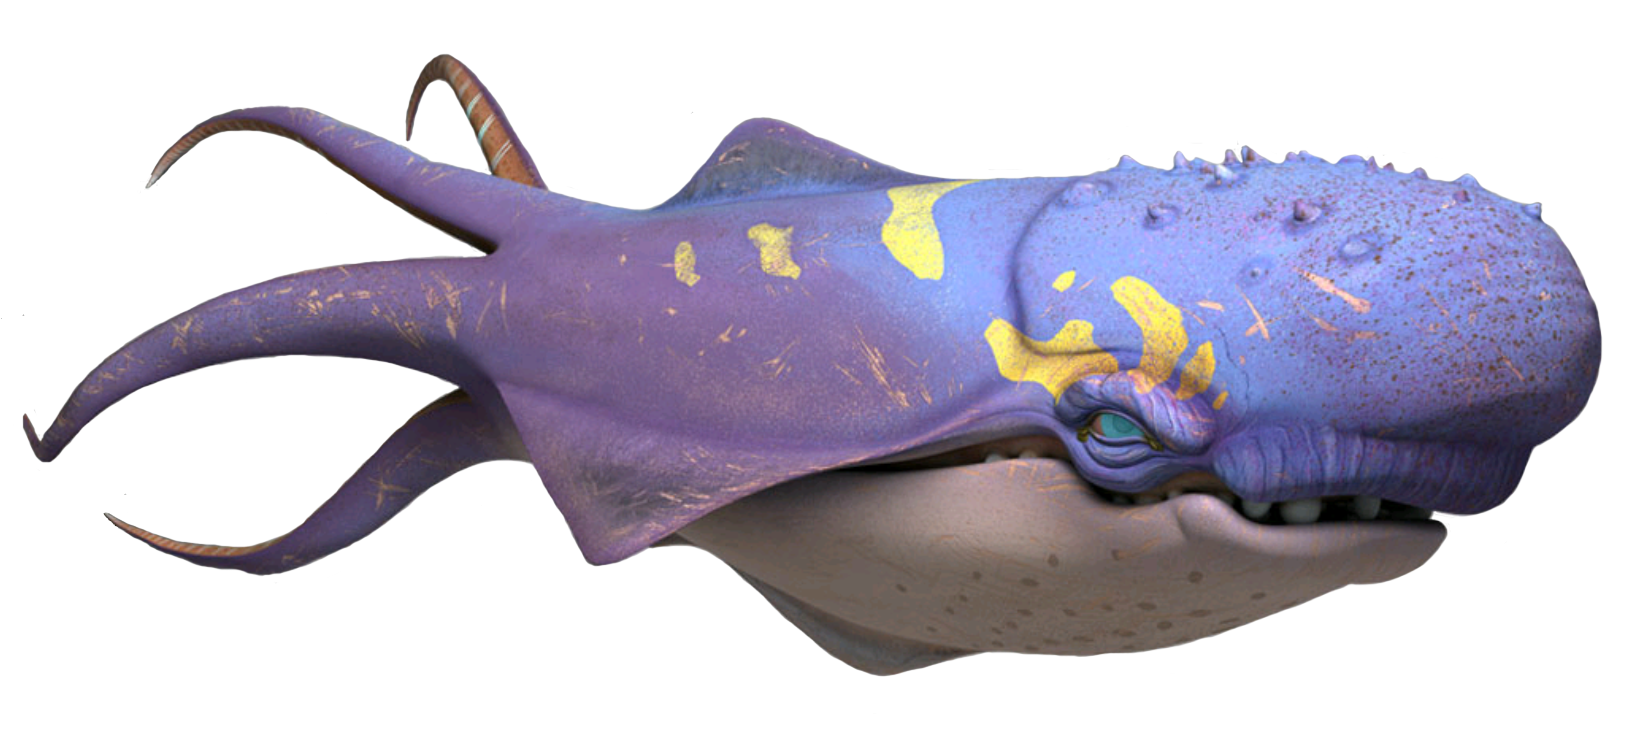
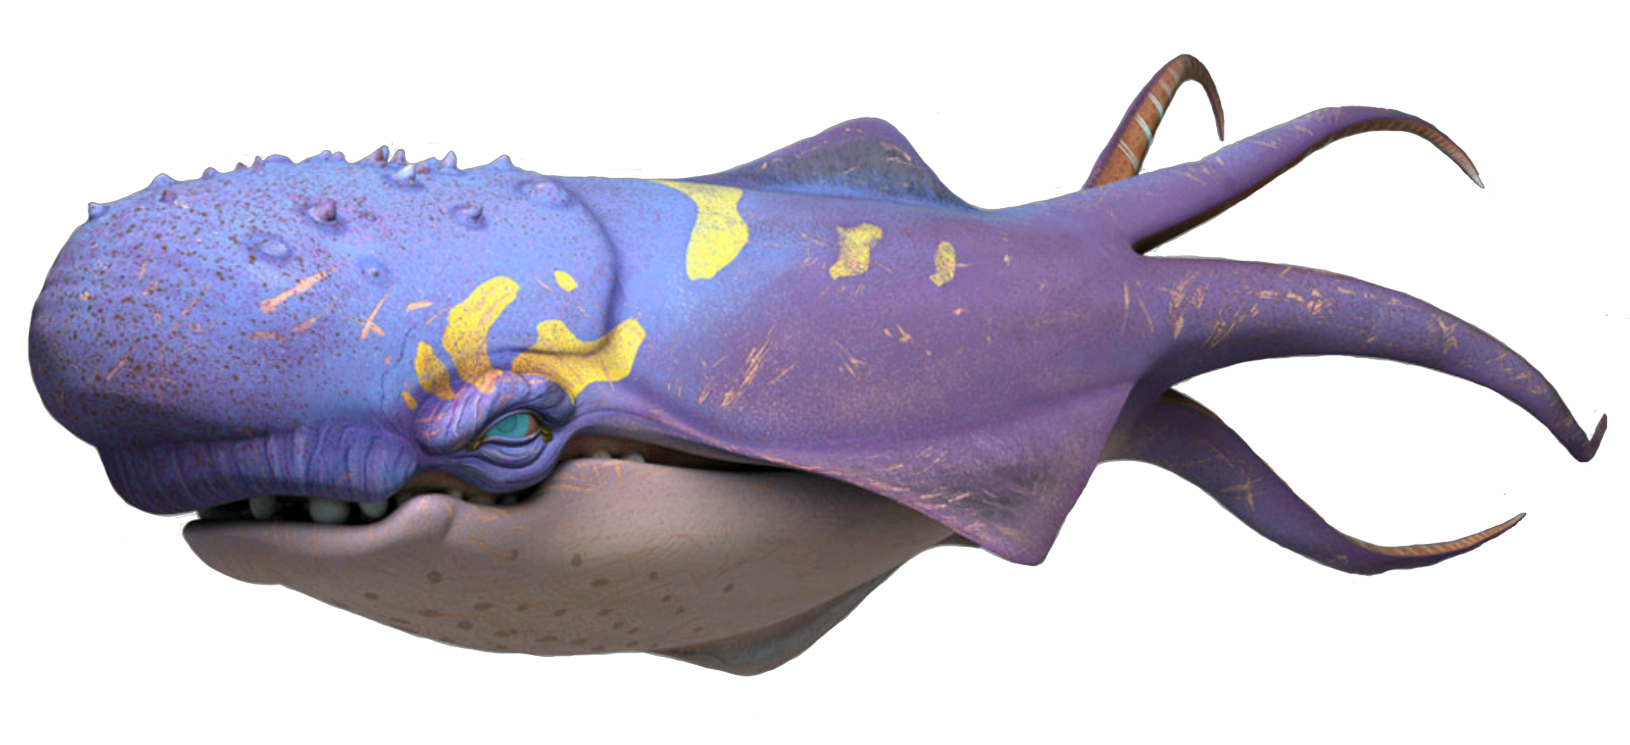
styles

diff --git a/src/styles/_encounter.scss b/src/styles/_encounter.scss
@@ -1,0 +1,173 @@
+@use 'variables';
+@use 'mixins';
+
+.encounter{
+    @include mixins.default-grid;
+    grid-template-columns: 16rem minmax(auto, 47rem);
+    grid-auto-rows: max-content;
+    height: 100vh;
+
+    @include mixins.medium-screen{
+        grid-template-columns: 0.5fr 16rem minmax(auto, 47rem) 0.5fr;
+    }
+
+    @include mixins.wide-screen{
+        grid-template-columns: 0.5fr 16rem 6rem minmax(auto, 47rem) 0.5fr;
+    }
+    
+
+    &__game-title{
+        font-family: var(--title);
+        font-size: 2.25rem;
+        justify-self: center;
+        margin-top: 2.5rem;
+
+        @include mixins.medium-screen{
+            grid-column: 2/3;
+        }
+    }
+}
+
+.player{
+    @include mixins.default-grid;
+    grid-column: 1/2;
+
+    @include mixins.medium-screen{
+        grid-column: 2/3;
+    }
+
+    &__background{
+        position: relative;
+        background: rgba(255,255,255,0.95);
+        height: 9rem;
+        width: 9rem;
+        border-radius: 999rem;
+        justify-self: center;
+        margin-top: 2rem;
+    }
+
+    &__image{
+        @include mixins.default-img;
+        width: 17.9rem;
+        position: absolute;
+        left: -50px;
+        top: 10px;
+        // display: none;
+    }
+
+    &__stats{
+        @include mixins.default-grid;
+        grid-template-rows: repeat(4,1.85rem);
+        text-align: right;
+        margin: 1.5rem 2.25rem 0 0;
+        font-size: 1rem;
+
+        @include mixins.wide-screen{
+            font-size: 1.1rem;
+        }
+    }
+}
+
+.scene{
+    @include mixins.default-grid;
+    grid-auto-rows: max-content;
+    grid-column: 2/3;
+    grid-row: 1/4;
+
+    @include mixins.medium-screen{
+        grid-column: 3/4;
+    }
+
+    @include mixins.wide-screen{
+        grid-column: 4/5;
+    }
+
+    &__heading{
+        text-align: center;
+        margin-top: 2.5rem;
+        font-size: 2rem;
+    }
+
+    &__image-slot{
+        @include mixins.image-slot;
+        width: 100%;
+        padding-bottom: 40%;
+        justify-self: center;
+        margin: 1.5rem 0;
+    }
+    
+    &__image{
+        @include mixins.default-img;
+        @include mixins.cover-parent;
+        width: 95%;
+    }
+
+    &__text{
+        background: white;
+        color: var(--bg-color);
+        margin: 0 1.5rem 0 0;
+        border-radius: 0.7rem;
+        padding: 0.75rem;
+        text-align: center;
+        line-height: 1.3;
+
+        @include mixins.wide-screen{
+            font-size: 1.1rem;
+        }
+    }
+    
+    &__event{
+        font-weight: bold;
+    }
+
+    &__choices{
+        margin: 0.7rem 0 1.25rem;
+    }
+
+    &__button-row{
+        display: flex;
+    }
+
+    &__button{
+        border: none;
+        border-radius: 0.7rem;
+        font-size: 1rem;
+        padding: 0.65rem 1rem;
+        cursor: pointer;
+        font-weight: bold;
+
+        &_action{
+            margin: 0 auto 1.5rem;
+            background: #ff8570;
+            color: white;
+            width: 9.5rem;
+            line-height: 1.3;
+
+            @include mixins.landscape{
+                width: auto;
+            }
+
+            &:hover{
+                background: rgb(242, 83, 99);
+            }
+        }
+
+        &_continue{
+            background: #ffd147;
+            color:  #745701;
+            font-size: 1.05rem;
+            margin: 1.25rem 0 0.75rem;
+            width: 100%;
+
+            &:hover{
+                background: rgb(255, 226, 61);
+            }
+        }
+    }
+}
+
+.resolution{
+    &__text{
+      font-weight: bold;
+    }
+}

diff --git a/src/components/EncounterScene.js b/src/components/EncounterScene.js
@@ -1,14 +1,26 @@
+import monster from '../img/monster.png'
+
 export default function EncounterScene() {
     
     return(
         <section className="scene">
             <h2 className="scene__heading">Starspawn Attack!</h2>
-            <p className="scene__event">A massive starspawn bears down on your ship, trying to swallow it whole.</p>
-            <p className="scene__choices">You can try to fend it off by firing your weapons, or you can take evasive maneuvers and try to outrun it...</p>
-            <button className="scene__button scene__button_a">Fire Your Weapons</button>
-            <button className="scene__button scene__button_b">Take Evasive Manuevers</button>
-            <p className="scene__resolution scene__resolution_a_success">You unleash a volley of missiles at the starspawn and manage to fire them directly into its gaping maw. The starspawn reels back in pain and anger and retreats, allowing you to continue on your way. </p>
-            <button className="scene__button scene__continue-button">Continue</button>
+            <figure className="scene__image-slot">
+                <img className="scene__image" src={monster} alt="space monster" />
+            </figure>      
+            <div className="scene__text">
+                <p className="scene__event">A massive starspawn bears down on your ship, trying to swallow it whole!</p>
+                <p className="scene__choices">You can try to fend it off by firing your weapons, or you can take evasive maneuvers and try to outrun it...</p>
+                <div className="scene__button-row">
+                    <button className="scene__button scene__button_action scene__button_a">Fire Your Weapons</button>
+                    <button className="scene__button scene__button_action scene__button_b">Take Evasive Manuevers</button>
+                </div>
+                <div className="resolution">
+                    <p className="resolution__text scene__resolution_a_success">You unleash a volley of missiles directly into the starspawn's gaping maw. It reels in pain and slinks away, allowing you to continue on your way. </p>
+                    <button className="scene__button scene__button_continue">Continue</button>
+                </div>
+            </div>
+            
         </section>
     )
 }

diff --git a/src/components/Player.js b/src/components/Player.js
@@ -4,11 +4,16 @@ export default function Player() {
     
     return(
         <section className="player">
-            <img className="player__image" src={playerShip} alt="player ship" />
-            <p className="player__weapons">Weapons: <span className="player__weapons-level">Operational</span></p>
-            <p className="player__life-support">Life Support: <span className="player__life-support-level">Operational</span></p>
-            <p className="player__power">Power: <span className="player__power-level">Operational</span></p>
-            <p className="player__power">Engines: <span className="player__engines-level">Operational</span></p>
+            <figure className="player__background">
+                <img className="player__image" src={playerShip} alt="player ship" />
+            </figure>
+            <div className="player__stats">
+                <p className="player__weapons">Weapons: <span className="player__weapons-level">Operational</span></p>
+                <p className="player__life-support">Life Support: <span className="player__life-support-level">Operational</span></p>
+                <p className="player__power">Power: <span className="player__power-level">Operational</span></p>
+                <p className="player__power">Engines: <span className="player__engines-level">Operational</span></p>
+                {/* Levels: Operational, Damaged, Impaired, Critical */}
+            </div>
         </section>
     )
 }

diff --git a/src/styles/_title.scss b/src/styles/_title.scss
@@ -6,7 +6,6 @@
 
     &__link{
         height: 100vh;
-        background: var(--bg-color);
         @include mixins.default-grid;
         grid-template-rows: repeat(2, max-content);
         position: relative;
@@ -19,8 +18,12 @@
         &_title{
             text-transform: uppercase;
             font-family: var(--title);
-            margin-top: 6.65%;
             font-size: 5rem;
+            margin-top: 3.25rem;
+
+            @include mixins.landscape{
+                margin-top: 5.25rem;
+            }
         }
 
         &_subtitle{
@@ -34,9 +37,14 @@
         @include mixins.default-img;
         width: 40rem;
         justify-self: center;
-        top: 40%;
         position: absolute;
         z-index: 1;
+        top: 18rem;
+
+        @include mixins.landscape{
+            top: 20rem;
+        }
+        
     }
 
     &__image-background{
@@ -46,7 +54,11 @@
         height: 24.5rem;
         width: 24.5rem;
         border-radius: 999rem;
-        top: 39%;
+        top: 17.5rem;
+
+        @include mixins.landscape{
+            top: 19.5rem;
+        }
     }
 
 }

diff --git a/src/styles/main.scss b/src/styles/main.scss
@@ -23,11 +23,12 @@ TABLE OF CONTENTS:
 /* 1. Partials =============================== */
 @use 'title';
 @use 'map';
-
+@use 'encounter';
 
 /* 2. Fonts ================================== */
 @import url(https://fonts.googleapis.com/css2?family=Gugi&display=swap);
 @import url(https://fonts.googleapis.com/css2?family=Yellowtail&display=swap);
+@import url(https://fonts.googleapis.com/css2?family=Press+Start+2P&display=swap);
 
 /* 3. General ================================ */
 
@@ -46,6 +47,8 @@ body{
 
 #root{
   @include mixins.default-grid;
+  background: var(--bg-color);
+  color: white;
 }
 
 

diff --git a/public/index.html b/public/index.html
@@ -24,7 +24,7 @@
       work correctly both with client-side routing and a non-root public URL.
       Learn how to configure a non-root public URL by running `npm run build`.
     -->
-    <title>React App</title>
+    <title>Dark Moon: Enemy Space</title>
   </head>
   <body>
     <noscript>You need to enable JavaScript to run this app.</noscript>

diff --git a/src/styles/_variables.scss b/src/styles/_variables.scss
@@ -3,4 +3,5 @@
 	--title: 'Gugi', cursive;
 	--handwriting: 'Yellowtail', cursive;
 	--bg-color: #113E53;
+	--cyber: 'Press Start 2P', cursive;
 }

diff --git a/src/styles/_mixins.scss b/src/styles/_mixins.scss
@@ -49,7 +49,6 @@
 
 @mixin map-element{
   background: var(--bg-color);
-  color: white;
   border-radius: 0.7rem;
   padding: 0.5rem 1rem;
 }

diff --git a/src/styles/_map.scss b/src/styles/_map.scss
@@ -3,7 +3,6 @@
 
 .map{
     @include mixins.default-grid;
-    background: var(--bg-color);
     height: 100vh;
 
     &__container{
